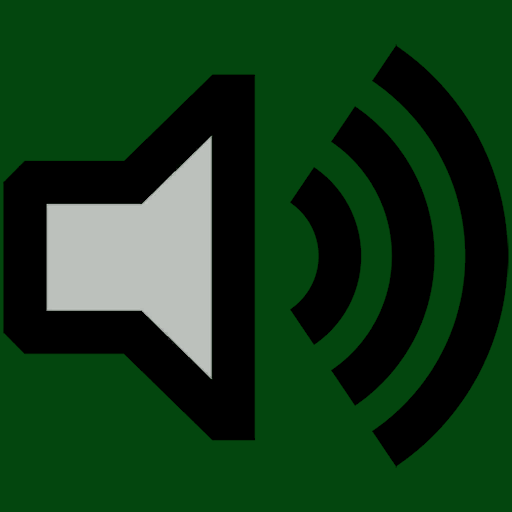
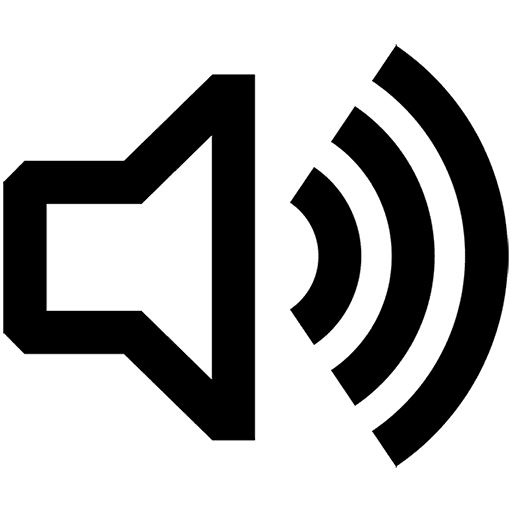
pain

diff --git a/Plugin.cs b/Plugin.cs
@@ -33,12 +33,10 @@ namespace InfoWatch
         async void Start()
         {
             // sprite and texture
-            // Transparency doesn't work. Maybe its cuz the original icons never had any?
-            // For now an identical green background on the loaded png will do
-            Stream str = Assembly.GetExecutingAssembly().GetManifestResourceStream($"InfoWatch.Resources.speaker.png");
+            Stream str = Assembly.GetExecutingAssembly().GetManifestResourceStream("InfoWatch.Resources.speaker.png");
             byte[] bytes = new byte[str.Length];
             await str.ReadAsync(bytes, 0, bytes.Length);
-            SpeakerTex = new Texture2D(512, 512, TextureFormat.RGBA32, false)
+            SpeakerTex = new Texture2D(512, 512, TextureFormat.RGBA32, true)
             {
                 wrapMode = TextureWrapMode.Repeat,
                 filterMode = FilterMode.Point,
@@ -94,9 +92,10 @@ namespace InfoWatch
                     {
                         TempText += $"\n{PhotonNetwork.PlayerList.Length} PLAYERS";
                     }
-
-                    if (VoiceRecorder != null && VoiceRecorder.IsCurrentlyTransmitting) { watch.SetImage(SpeakerSprite, ref watch.material); }
-                    else { watch.SetImage(null, ref watch.material); }
+                    // transparency doesnt work on the material slot because its handled differently
+                    // hat is close enough so whatever lol
+                    if (VoiceRecorder != null && VoiceRecorder.IsCurrentlyTransmitting) { watch.SetImage(SpeakerSprite, ref watch.hat); }
+                    else { watch.SetImage(null, ref watch.hat); }
 
                 }
                 watch.SetWatchText(TempText);
